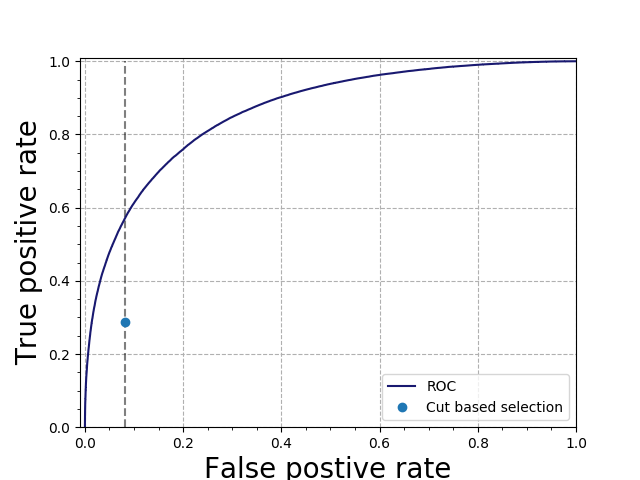
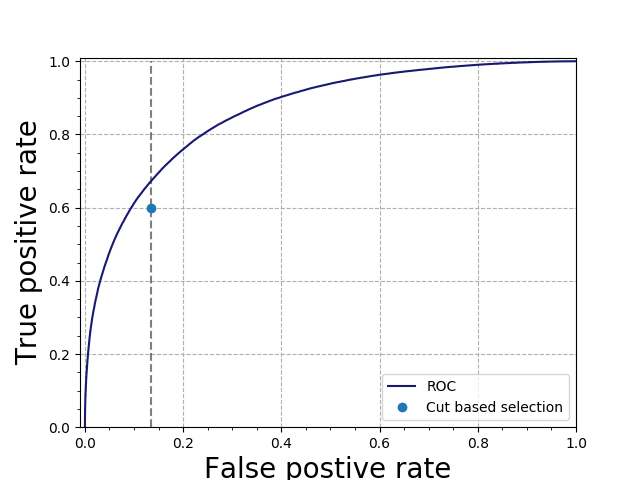
cut_based_edited

diff --git a/tool/cut_based.py b/tool/cut_based.py
@@ -15,6 +15,11 @@ N_gen_bkg = data_df.query('issig == 0').shape[0]
 Lumi=35900
 #Lumi=150000
 
+data_df['dEtaJJ'] = data_df['dEtaJJ'].abs()
+data_df['zepp']   = data_df['zepp'].abs()
+
+
+print(data_df.describe())
 print("xsec sig: ",xsec_sig)
 print("xsec bkg: ",xsec_bkg)
 print("Signal Gen events: ",N_gen_sig)
@@ -25,32 +30,17 @@ print("Start optimize ... ")
 ## Cut results -----------------------------------
 
 '''
-Mjj          900.000000
-dEta           2.500000
-Zepp           2.200000
-N_exp_sig     51.118863
-N_exp_bkg     69.374917
-Sigma          4.660000
-
-('xsec sig: ', 0.004942)
-('xsec bkg: ', 0.02353)
-('Signal Gen events: ', 740000)
-('BKG    Gen events: ', 740000)
-Start optimize ...
-('Xsec sig: ', 0.004942)
-('Xsec bkg: ', 0.02353)
-('Gen sig: ', 740000)
-('Gen bkg: ', 740000)
-('TPR: ', 0.288)
-('FPR: ', 0.082)
-('ACC: ', 0.603)
-
+Mjj          800.000000
+dEta           2.400000
+Zepp           1.600000
+N_exp_sig    106.249527
+N_exp_bkg    114.147731
+Sigma          7.160000
 '''
 
-
-Mjjcut  = 900.0
-dEtacut = 2.5
-Zeppcut =  2.2
+Mjjcut  = 800
+dEtacut = 2.4
+Zeppcut =  1.6
 
 # Confusion matrix
 TP = data_df.query('mJJ > @Mjjcut  and dEtaJJ > @dEtacut  and zepp < @Zeppcut  and issig > 0')['mJJ'].shape[0]
@@ -72,15 +62,14 @@ print("FPR: ",round(FPR,3))
 print("ACC: ",round(ACC,3))
 
 
-
 '''
 ## ----------------- Cut scanner
 
 
 ## Set cut domain
-Domain_Mjj  = [600,700,800,900,1000,1100,1200,1300,1400,1500,1600,1700,1800,1900,2000,2100,2200,2300,2400,2500]
-Domain_dEta = list([round(i*0.1,1) for i in range(20,60)])
-Domain_zepp = list([round(i*0.1,1) for i in range(10,30)])
+Domain_Mjj  = [500,600,700,800,900,1000,1100,1200,1300,1400,1500,1600,1700,1800,1900,2000,2100,2200,2300,2400,2500]
+Domain_dEta = list([round(i*0.1,1) for i in range(0,60)])
+Domain_zepp = list([round(i*0.1,1) for i in range(0,50)])
 Domain_zepp.reverse()
 
 print("Mjj  dEta Zepp N_exp_sig N_exp_bkg Sigma")
@@ -97,6 +86,8 @@ for i in range(len(Domain_Mjj)):
 			N_exp_sig = N_sig * xsec_sig *Lumi / N_gen_sig
 			N_exp_bkg = N_bkg * xsec_bkg *Lumi / N_gen_bkg
 			
+			if(N_exp_sig+N_exp_bkg ==0):
+				continue;
 			Sigma = N_exp_sig / math.sqrt( N_exp_sig+N_exp_bkg )
 			print Domain_Mjj[i],Domain_dEta[j],Domain_zepp[k],N_exp_sig,N_exp_bkg,round(Sigma,2)
 

diff --git a/tool/find_opt.py b/tool/find_opt.py
@@ -2,7 +2,7 @@ import numpy as np
 import pandas as pd
 from IPython.display import display
 
-data_df = pd.read_csv('cut_results2.csv',sep=' ')
+data_df = pd.read_csv('cut_results3.csv',sep=' ')
 #display(data_df)
 
 

diff --git a/evaluation/ROC.py b/evaluation/ROC.py
@@ -27,8 +27,8 @@ print("AUC: ", auc)
 
 print("Accuracy: ", accuracy_score(y_true,y_pred>=0.59))
 
-x_dot = 0.082
-y_dot = 0.288
+x_dot = 0.135
+y_dot = 0.599
 
 
 plt.rcParams["legend.loc"] = 'lower right'
